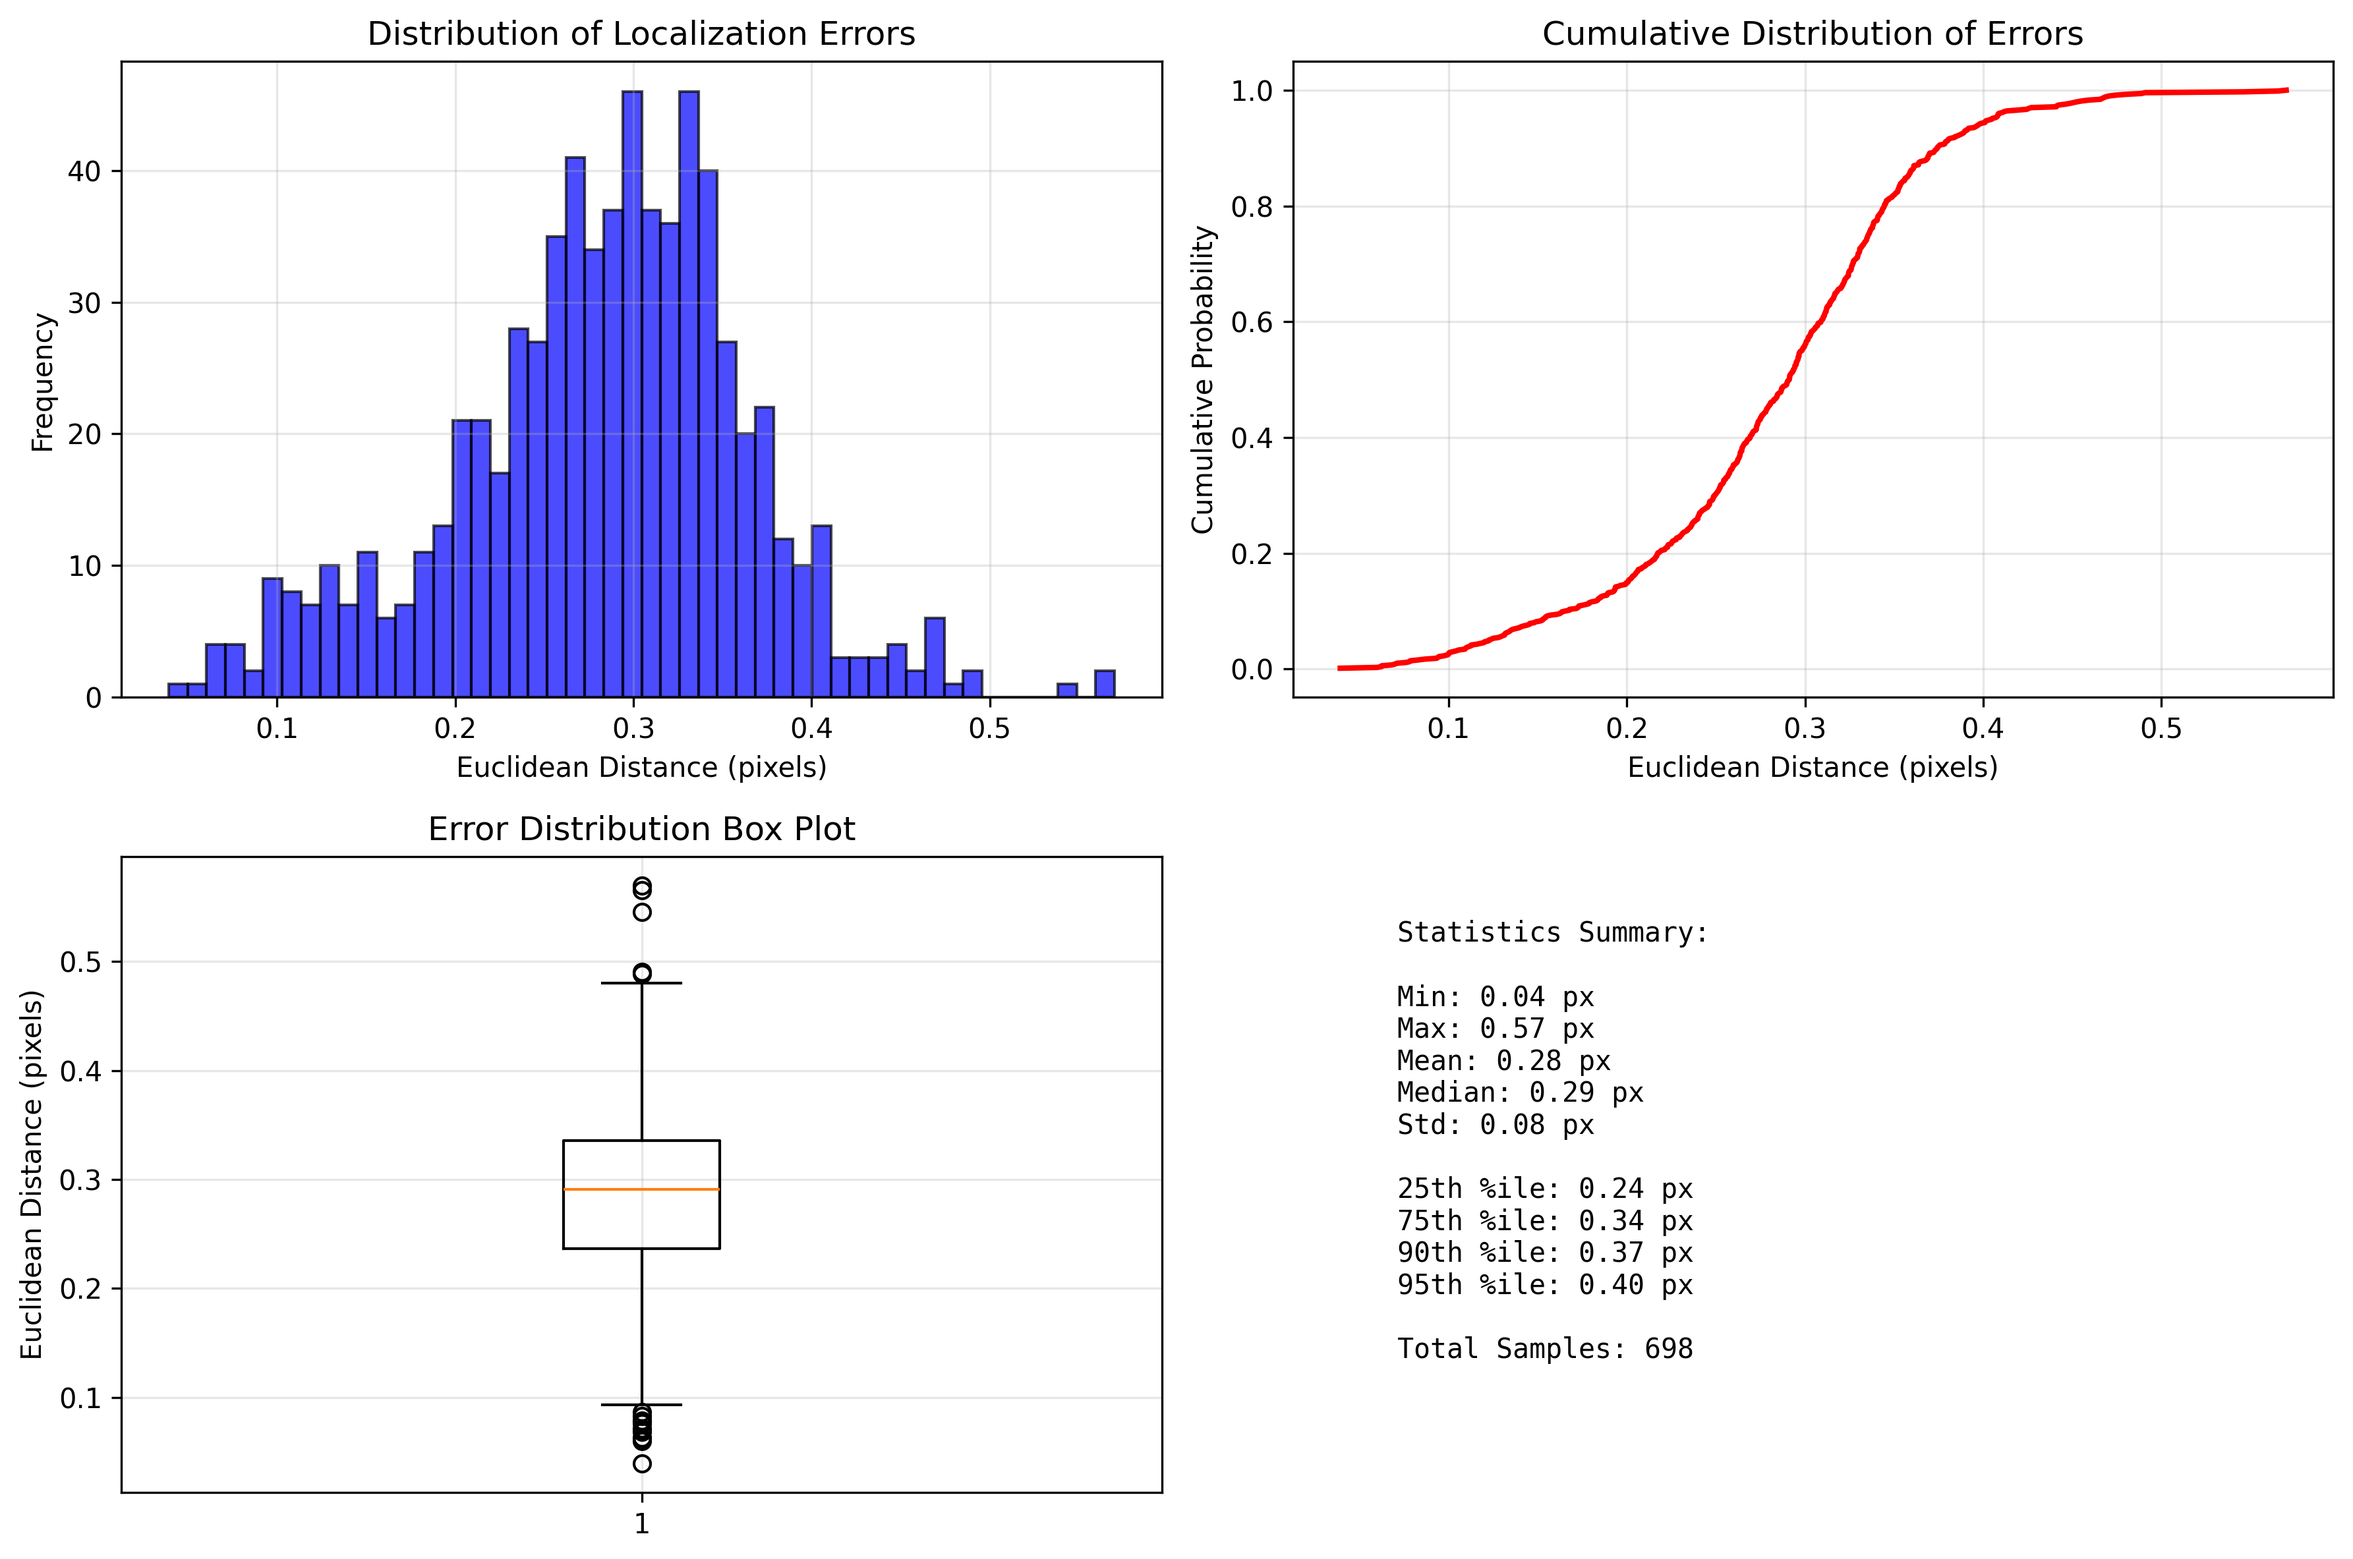
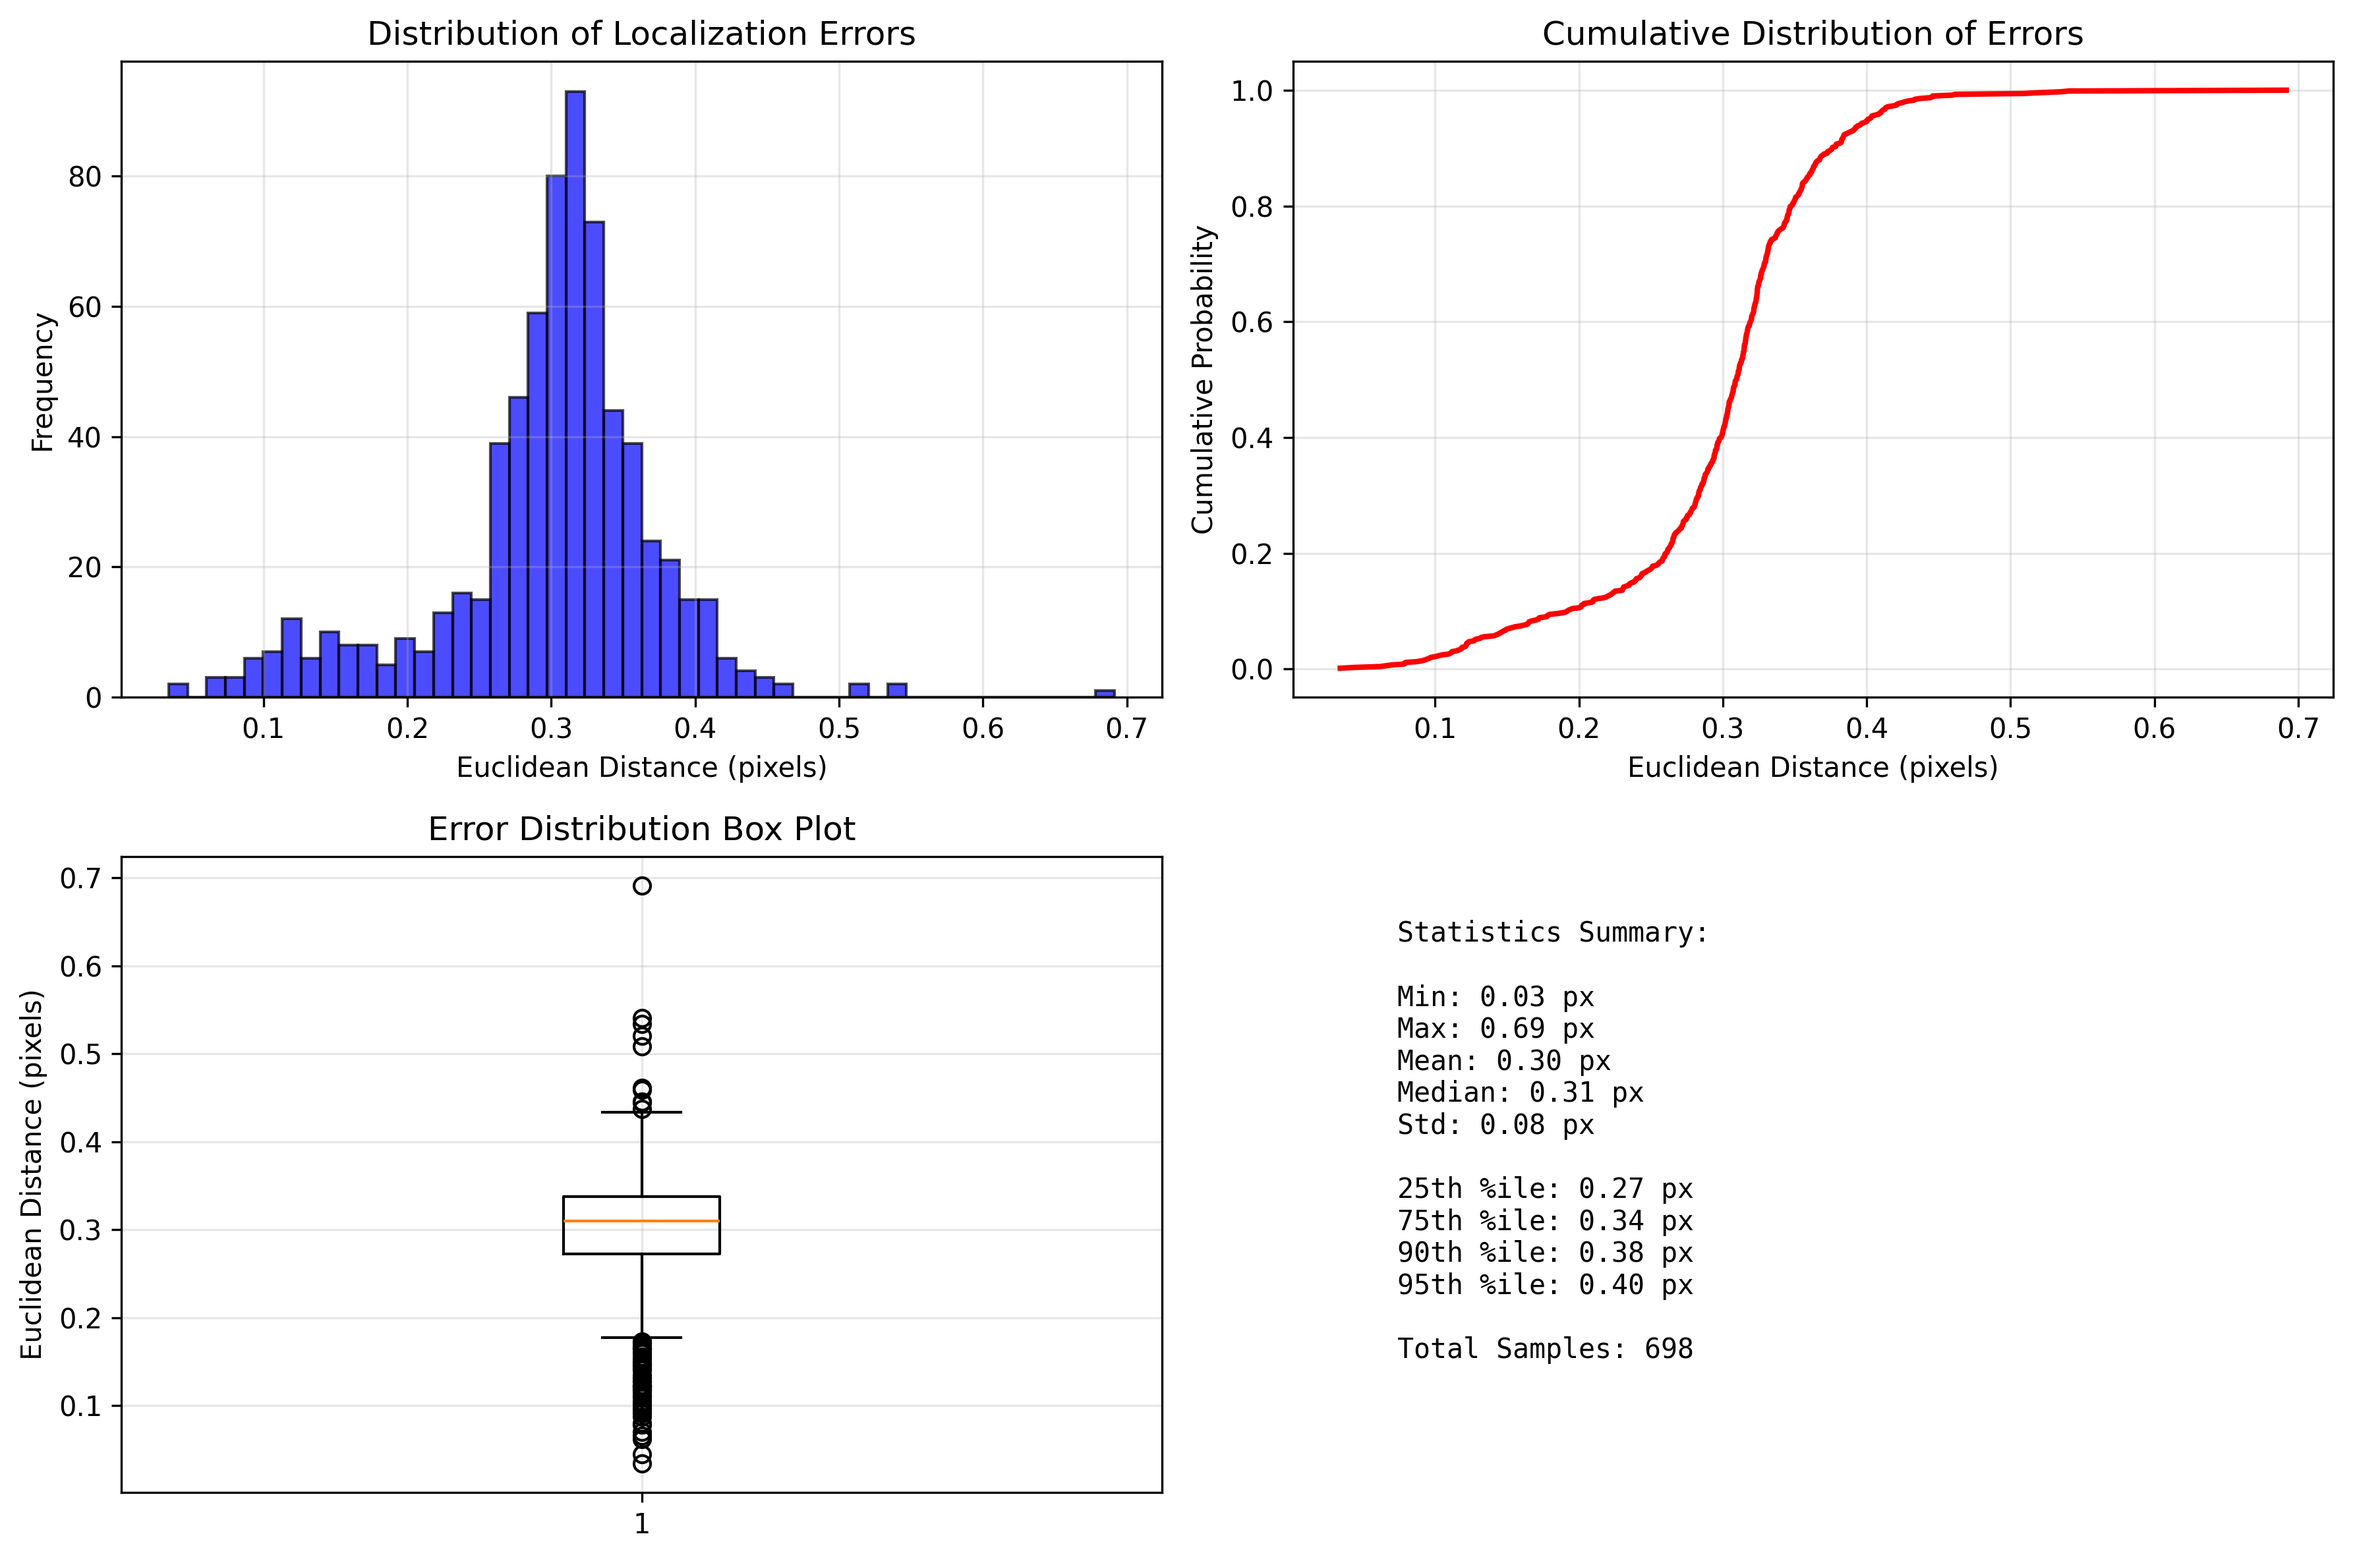
i dont care anymore

diff --git a/ELEC475/Lab2/src/train.py b/ELEC475/Lab2/src/train.py
@@ -17,6 +17,7 @@ from datetime import datetime
 
 from model import SnoutNet
 from model_alexnet import AlexNetRegressor
+from model_vgg import VGG16Regressor
 from dataloader import SnoutDataset
 
 
@@ -296,7 +297,8 @@ def main():
     # Create model
     print("Creating SnoutNet model...")
     # model = SnoutNet(input_channels=3, input_size=config['target_size'])
-    model = AlexNetRegressor()
+    # model = AlexNetRegressor()
+    model = VGG16Regressor()
 
     # Print model info
     total_params = sum(p.numel() for p in model.parameters())
@@ -311,7 +313,7 @@ def main():
 
     # Create timestamped save directory
     timestamp = datetime.now().strftime("%Y%m%d_%H%M%S")
-    save_dir = f"./checkpoints/alexnet_{timestamp}"
+    save_dir = f"./checkpoints/vgg_{timestamp}"
 
     # Train the model
     print("Starting training...")

diff --git a/ELEC475/Lab2/src/test.py b/ELEC475/Lab2/src/test.py
@@ -14,6 +14,8 @@ from torch.utils.data import DataLoader
 import time
 
 from model import SnoutNet
+from model_vgg import VGG16Regressor
+from model_alexnet import AlexNetRegressor
 from model_improved import ImprovedSnoutNet, SnoutNetWithSpatialAttention
 from dataloader import SnoutDataset
 
@@ -45,7 +47,8 @@ class SnoutNetTester:
             print("Detected: SnoutNetWithSpatialAttention")
         else:
             # Original SnoutNet
-            model = SnoutNet(input_channels=3, input_size=227).to(self.device)
+            # model = SnoutNet(input_channels=3, input_size=227).to(self.device)
+            model = VGG16Regressor().to(self.device)
             print("Detected: Original SnoutNet")
             
             # Initialize FC layers for original model

diff --git a/ELEC475/Lab2/src/show.py b/ELEC475/Lab2/src/show.py
@@ -19,6 +19,8 @@ import argparse
 from model import SnoutNet
 from model_improved import ImprovedSnoutNet, SnoutNetWithSpatialAttention
 from dataloader import SnoutDataset
+from model_alexnet import AlexNetRegressor
+from model_vgg import VGG16Regressor
 
 
 class SnoutNetVisualizer:
@@ -50,7 +52,8 @@ class SnoutNetVisualizer:
             print("Detected: SnoutNetWithSpatialAttention")
         else:
             # Original SnoutNet
-            model = SnoutNet(input_channels=3, input_size=227).to(self.device)
+            # model = SnoutNet(input_channels=3, input_size=227).to(self.device)
+            model = AlexNetRegressor().to(self.device)
             print("Detected: Original SnoutNet")
 
             # Initialize FC layers for original model
